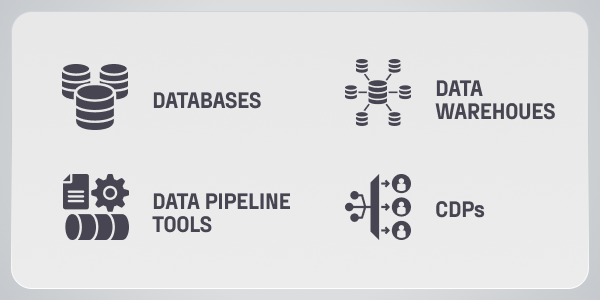
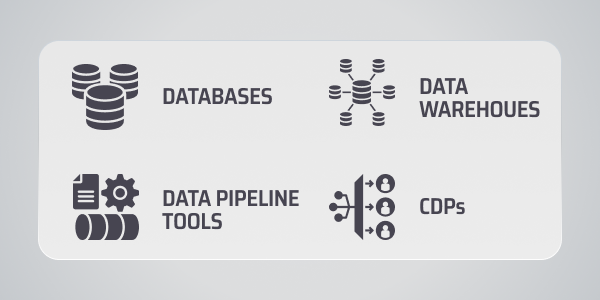
Update home.md images

Changed region(s): [[0.0, 0.03, 0.99, 0.99], [0.54, 0.57, 0.81, 0.81]]

diff --git a/docs/home.md b/docs/home.md
@@ -18,19 +18,19 @@ Read more about our philosophy in our [Manifesto](manifesto.md).
 ## Building Blocks
 
 ::::link-array
-:::link-array-item{headerType="IMAGE" headerImage="https://uploads-ssl.webflow.com/64f9dd739f984c15f86e446e/6538ec07147833602dbd146b_home_data_sources.png"}
+:::link-array-item{headerType="IMAGE" headerImage="hhttps://uploads-ssl.webflow.com/64f9dd739f984c15f86e446e/6539122074bfead102946fcb_home_data_sources.png"}
 [**1. Data Sources**](building_blocks/data_sources/readme.md)
 
 Connecting and extracting data from multiple sources
 :::
 
-:::link-array-item{headerType="IMAGE" headerImage="https://uploads-ssl.webflow.com/64f9dd739f984c15f86e446e/6538ec075d1392f5c6615c7d_home_vector_compute.png"}
+:::link-array-item{headerType="IMAGE" headerImage="https://uploads-ssl.webflow.com/64f9dd739f984c15f86e446e/65391220959a7238510c1c37_home_vector_compute.png"}
 [**2. Vector Compute**](building_blocks/vector_compute/readme.md)
 
 Turn your data into vector by running pipelines and models
 :::
 
-:::link-array-item{headerType="IMAGE" headerImage="https://uploads-ssl.webflow.com/64f9dd739f984c15f86e446e/6538ec07e84a658ed3c79208_home_vector_search.png"}
+:::link-array-item{headerType="IMAGE" headerImage="https://uploads-ssl.webflow.com/64f9dd739f984c15f86e446e/653912200a4e20cca55dd646_home_vector_search.png"}
 [**3. Vector Search**](building_blocks/vector_search/readme.md)
 
 Query and retrieve vectors for your use -case
